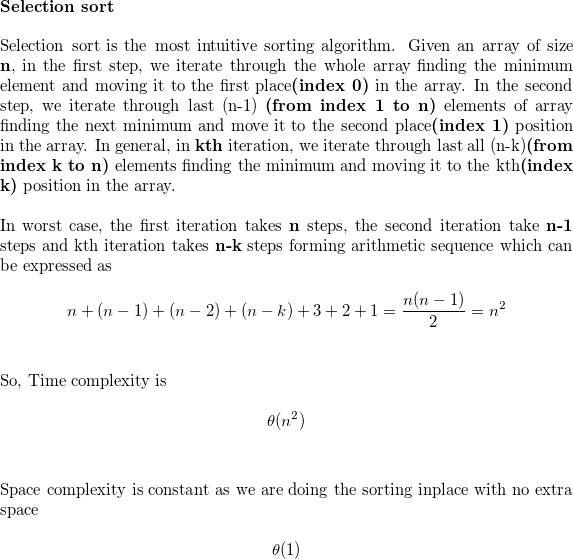
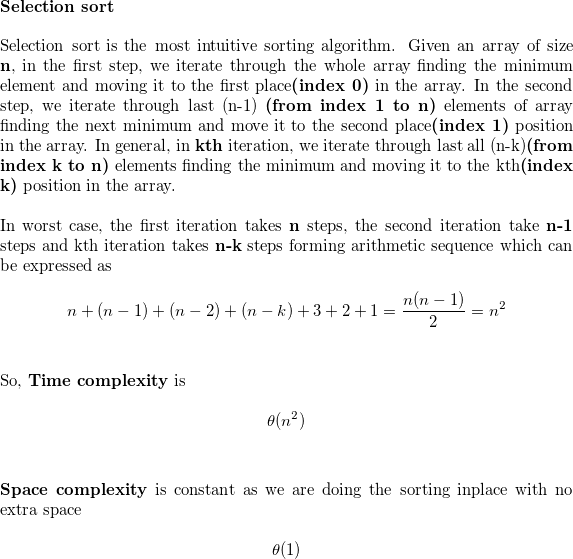
Add: Added selection, bubble sort

Changed region(s): [[0.0, 0.8515, 1.0, 0.9428], [0.0593, 0.6691, 0.3264, 0.6995]]

diff --git a/python/sorting/selection_sort/README.md b/python/sorting/selection_sort/README.md
@@ -3,7 +3,7 @@
 
 
 <!---
-From http://mathurl.com/jl6yqld
+From http://mathurl.com/zrcad4n
 
 ##### BEGIN
 \textbf{Selection sort}
@@ -17,12 +17,12 @@ In worst case, the first iteration takes \textbf{n} steps, the second iteration 
 \[n + (n-1) + (n-2) + (n-k) + 3 + 2 + 1 = \frac{n(n-1)}{2} = n^{2}\]
 \\
 
-So, Time complexity is 
+So, \textbf{Time complexity} is 
 
 \[\theta(n^{2})\]
 \\
 
-Space complexity is constant as we are doing the sorting inplace with no extra space
+\textbf{Space complexity} is constant as we are doing the sorting inplace with no extra space
 
 \[\theta(1)\]
 ##### END
